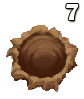
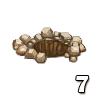
Updated Farmer skin with the new assets. WIP.

diff --git a/src/maze/maze.js b/src/maze/maze.js
@@ -93,6 +93,9 @@ var loadLevel = function() {
   // Height and width of the goal and obstacles.
   Maze.MARKER_HEIGHT = 43;
   Maze.MARKER_WIDTH = 50;
+  // Height and width of the dirt piles/holes.
+  Maze.DIRT_HEIGHT = 50;
+  Maze.DIRT_WIDTH = 50;
 
   Maze.MAZE_WIDTH = Maze.SQUARE_SIZE * Maze.COLS;
   Maze.MAZE_HEIGHT = Maze.SQUARE_SIZE * Maze.ROWS;
@@ -506,13 +509,13 @@ BlocklyApps.reset = function(first) {
         dirtIcon = document.createElementNS(Blockly.SVG_NS, 'image');
         dirtIcon.setAttribute('id', 'dirt' + dirtId);
         Maze.setDirtImage(dirtIcon, x, y);
-        dirtIcon.setAttribute('height', 50);
-        dirtIcon.setAttribute('width', 42);
+        dirtIcon.setAttribute('height', Maze.DIRT_HEIGHT);
+        dirtIcon.setAttribute('width', Maze.DIRT_WIDTH);
         svg.insertBefore(dirtIcon, pegmanIcon);
         dirtIcon.setAttribute('x',
             Maze.SQUARE_SIZE * (x + 0.5) - dirtIcon.getAttribute('width') / 2);
         dirtIcon.setAttribute('y',
-            Maze.SQUARE_SIZE * (y + 1.0) - dirtIcon.getAttribute('height'));
+            Maze.SQUARE_SIZE * (y + 0.5) - dirtIcon.getAttribute('height') / 2);
       }
       ++dirtId;
     }
@@ -1058,24 +1061,24 @@ Maze.scheduleFill = function() {
     Maze.setDirtImage(dirtIcon, x, y);
     dirtIcon.setAttribute('x', Maze.SQUARE_SIZE * (x + 0.5) -
                           dirtIcon.getAttribute('width') / 2);
-    dirtIcon.setAttribute('y', Maze.SQUARE_SIZE * (y + 1.0) -
-                          dirtIcon.getAttribute('height'));
+    dirtIcon.setAttribute('y', Maze.SQUARE_SIZE * (y + 0.5) -
+                          dirtIcon.getAttribute('height') / 2);
   } else {
     var svgMaze = document.getElementById('svgMaze');
     if (Maze.dirt_[y][x] === 0) {
       // If not, create a new dirtIcon for the current location
       dirtIcon = document.createElementNS(Blockly.SVG_NS, 'image');
       dirtIcon.setAttribute('id', 'dirt' + dirtId);
-      dirtIcon.setAttribute('height', 50);
-      dirtIcon.setAttribute('width', 42);
+      dirtIcon.setAttribute('height', Maze.DIRT_HEIGHT);
+      dirtIcon.setAttribute('width', Maze.DIRT_WIDTH);
       svgMaze.insertBefore(dirtIcon, pegmanIcon);
 
       ++Maze.dirt_[y][x];
       Maze.setDirtImage(dirtIcon, x, y);
       dirtIcon.setAttribute('x', Maze.SQUARE_SIZE * (x + 0.5) -
                             dirtIcon.getAttribute('width') / 2);
-      dirtIcon.setAttribute('y', Maze.SQUARE_SIZE * (y + 1.0) -
-                            dirtIcon.getAttribute('height'));
+      dirtIcon.setAttribute('y', Maze.SQUARE_SIZE * (y + 0.5) -
+                            dirtIcon.getAttribute('height') / 2);
     } else if (Maze.dirt_[y][x] == -1) {
       // Remove the dirtIcon
       dirtIcon = document.getElementById('dirt' + dirtId);
@@ -1118,15 +1121,15 @@ Maze.scheduleDig = function() {
       Maze.dirt_[y][x] = Maze.dirt_[y][x] - 1;
       dirtIcon = document.createElementNS(Blockly.SVG_NS, 'image');
       dirtIcon.setAttribute('id', 'dirt' + dirtId);
-      dirtIcon.setAttribute('height', 50);
-      dirtIcon.setAttribute('width', 42);
+      dirtIcon.setAttribute('height', Maze.DIRT_HEIGHT);
+      dirtIcon.setAttribute('width', Maze.DIRT_WIDTH);
       svg.insertBefore(dirtIcon, pegmanIcon);
 
       Maze.setDirtImage(dirtIcon, x, y);
       dirtIcon.setAttribute('x', Maze.SQUARE_SIZE * (x + 0.5) -
                             dirtIcon.getAttribute('width') / 2);
-      dirtIcon.setAttribute('y', Maze.SQUARE_SIZE * (y + 1.0) -
-                            dirtIcon.getAttribute('height'));
+      dirtIcon.setAttribute('y', Maze.SQUARE_SIZE * (y + 0.5) -
+                            dirtIcon.getAttribute('height') / 2);
     } else if (Maze.dirt_[y][x] == 1) {
       // Need to remove this dirtIcon
       dirtIcon = document.getElementById('dirt' + dirtId);
